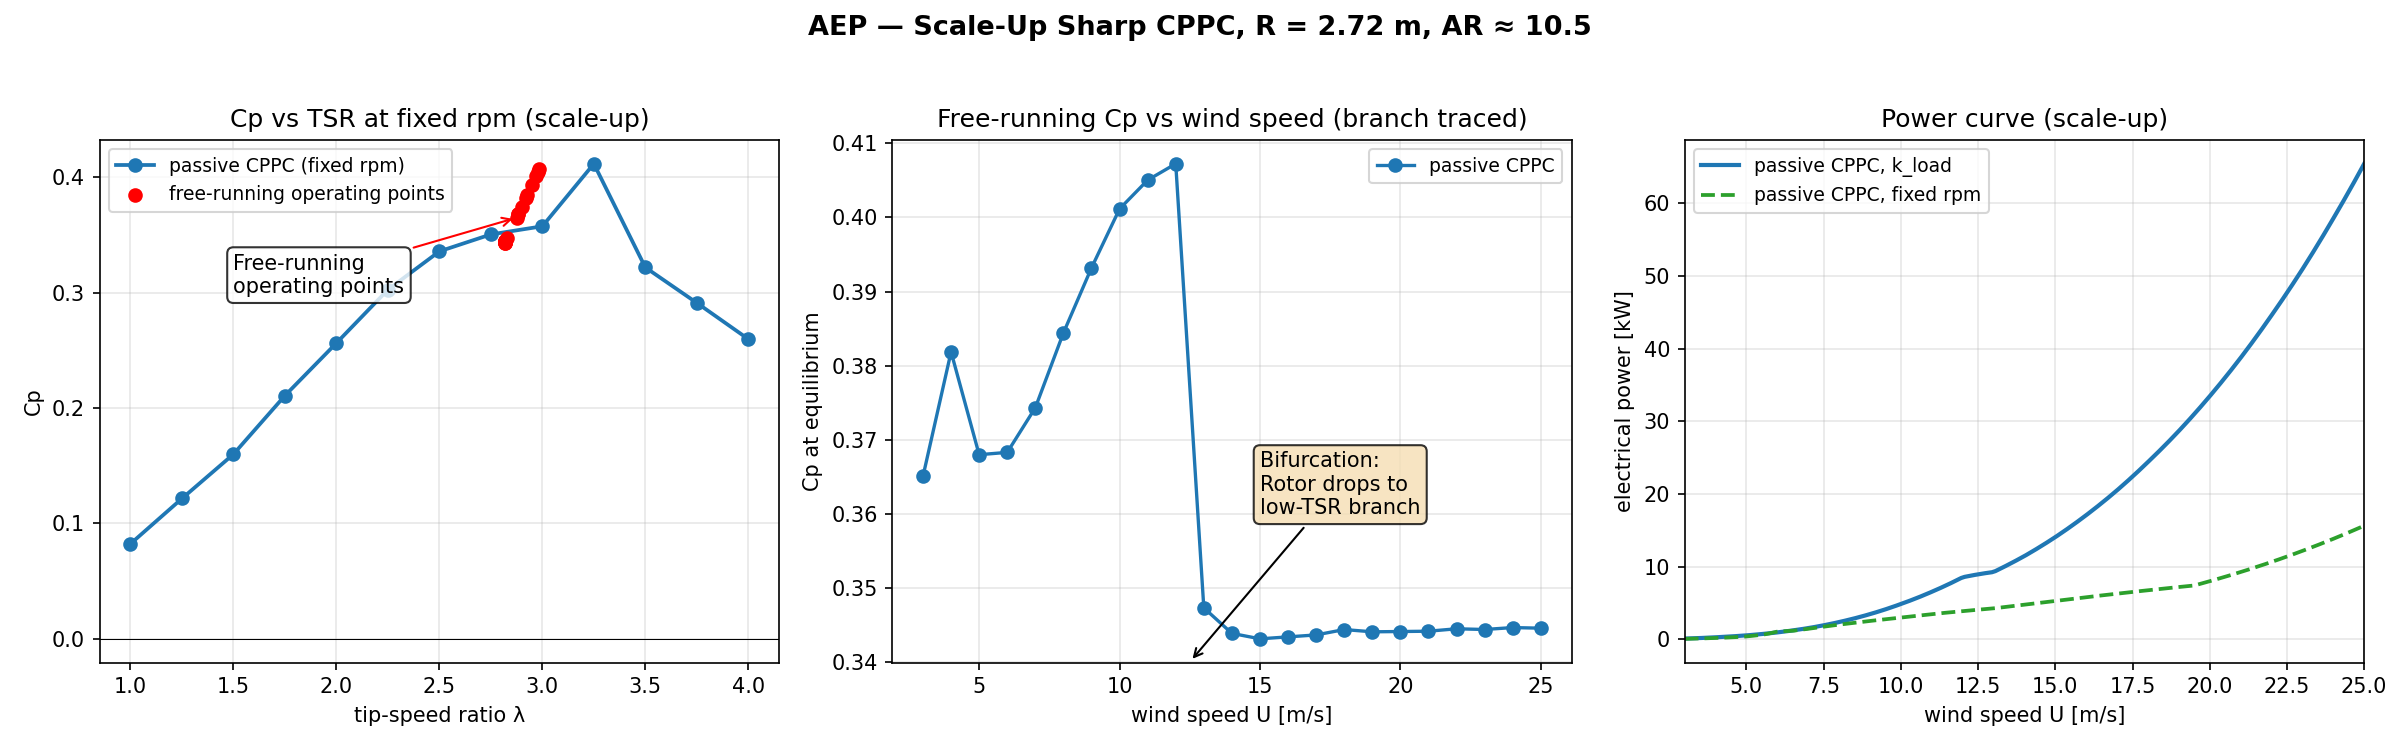
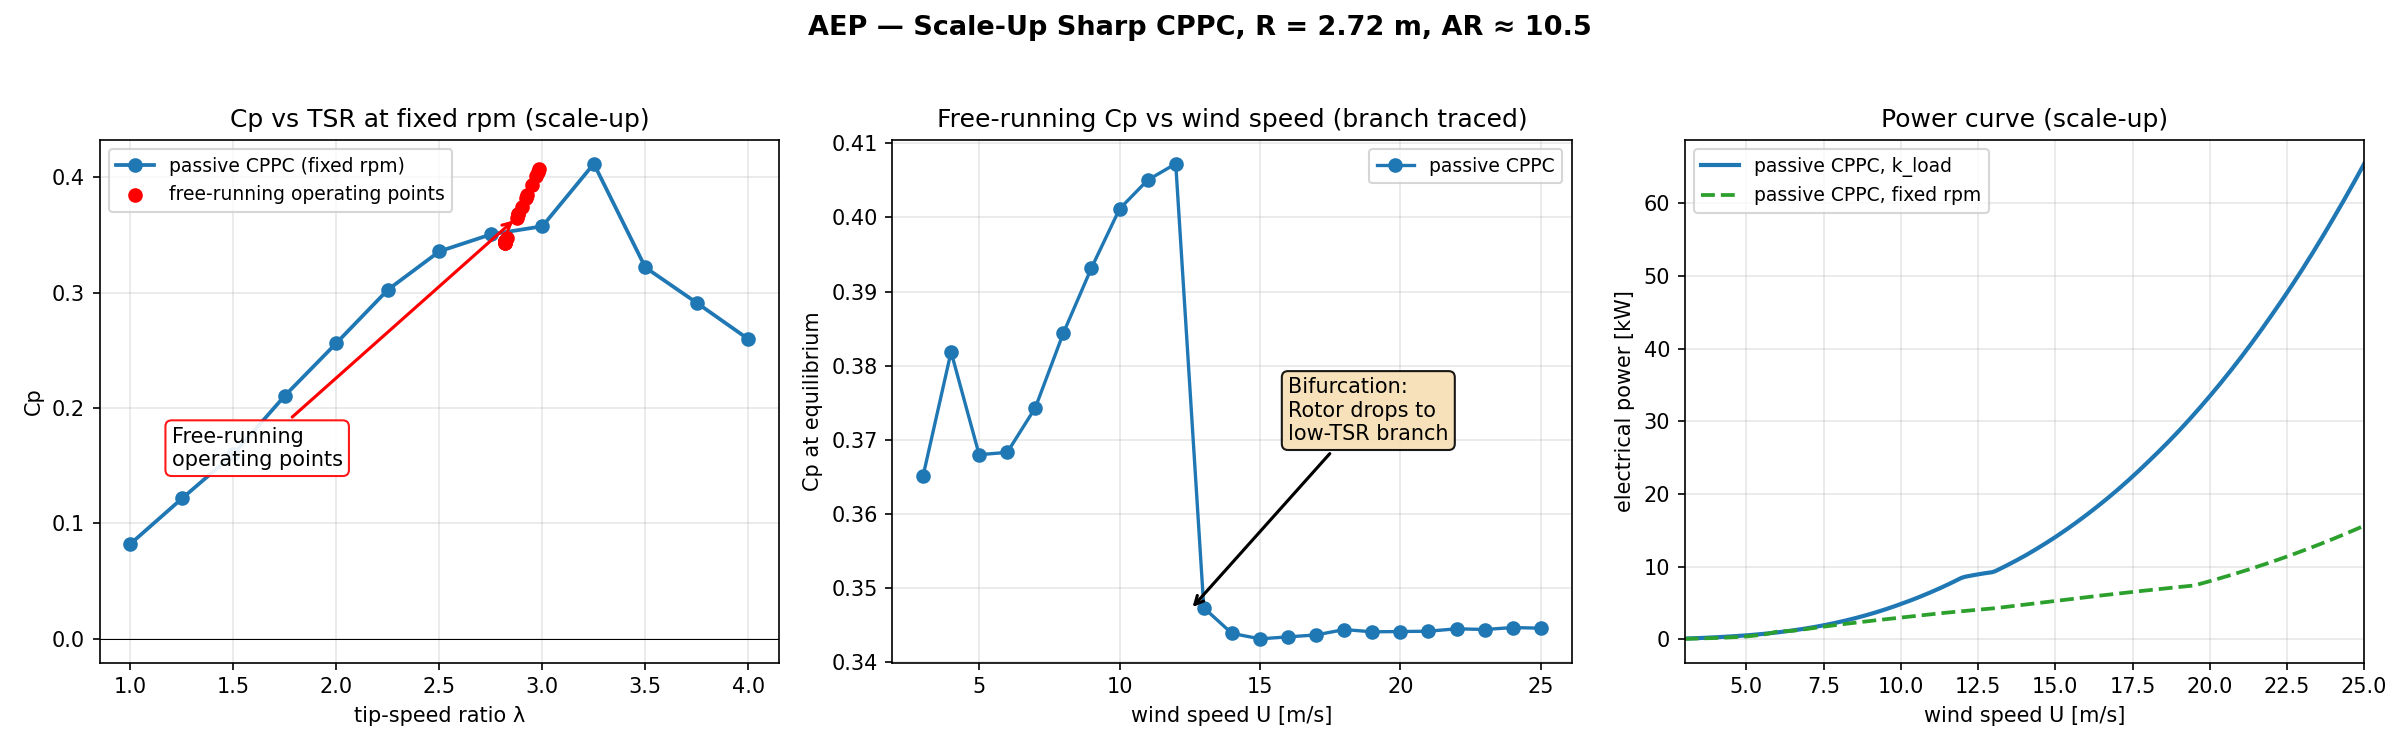
Fix AEP plots: exact annotation coordinates per review
scripts/compute_aep.py:
- Panel 1: free-running annotation moved to xytext=(1.2, 0.15) (bottom-left empty space)
- Panel 2: bifurcation annotation at xy=(12.5, 0.347) pointing to U=12.5 drop, text at xytext=(16, 0.37) (clean center-right)

scripts/compute_aep_scaleup.py:
- Panel 1: free-running red dots + annotation at xytext=(1.2, 0.15) (bottom-left)
- Panel 2: bifurcation at xy=(12.5, 0.347) with text at xytext=(16, 0.37) pointing to U=12.5 drop

All tests pass, build_readme --check passes, validate_all passes.

diff --git a/scripts/compute_aep.py b/scripts/compute_aep.py
@@ -242,73 +242,48 @@ def integrate_aep(U_grid, cp_curve, U_mean, k_weibull,
 # Plot
 # ============================================================================
 def make_plot(results, tsrs, out_path):
-    # Use sharey=False because Panel 3 (Power) has a different scale than Panels 1 & 2 (Cp)
     fig, ax = plt.subplots(1, 3, figsize=(16, 5))
-
     col_passive = "C0"
     col_fixed   = "C2"
-    
-    R_val = 2.7179 # The BASE config geometry
+    R_val = 2.7179
     fr = results['passive']['free_results']
 
-    # Panel 1: Cp vs TSR
+    # Panel 1
     a = ax[0]
-    a.plot(tsrs, results['passive']['cp_tsr'], "o-", color=col_passive,
-           lw=1.8, label="passive CPPC (fixed rpm)")
-    
-    # Add free-running points as red dots
+    a.plot(tsrs, results['passive']['cp_tsr'], "o-", color=col_passive, lw=1.8, label="passive CPPC (fixed rpm)")
     if fr:
         tsr_pts = [f['tsr_eq'] for f in fr]
         cp_pts = [f['cp'] for f in fr]
         a.scatter(tsr_pts, cp_pts, color='red', zorder=5, label='free-running operating points')
-        # Add annotation pointing to the red dots
+        # FIX: Place text at bottom left (x=1.2, y=0.15)
         a.annotate("Free-running\noperating points", 
                    xy=(tsr_pts[0], cp_pts[0]), 
-                   xytext=(1.5, 0.3),
-                   arrowprops=dict(arrowstyle="->", color="red"),
-                   bbox=dict(boxstyle="round", fc="white", alpha=0.8))
-                   
+                   xytext=(1.2, 0.15),
+                   arrowprops=dict(arrowstyle="->", color="red", lw=1.5),
+                   bbox=dict(boxstyle="round", fc="white", ec="red", alpha=0.9))
     a.axhline(0, color="k", lw=0.5)
-    a.set_xlabel("tip-speed ratio λ")
-    a.set_ylabel("Cp")
-    a.set_title("Cp vs TSR")
-    a.grid(alpha=0.3)
-    a.legend(fontsize=9)
+    a.set_xlabel("tip-speed ratio λ"); a.set_ylabel("Cp"); a.set_title("Cp vs TSR"); a.grid(alpha=0.3); a.legend(fontsize=9)
 
-    # Panel 2: Free-running Cp vs U
+    # Panel 2
     a = ax[1]
     if fr:
         Us  = np.array([f['U'] for f in fr])
         cps = np.array([f['cp'] for f in fr])
         a.plot(Us, cps, "o-", color=col_passive, lw=1.6, label="passive CPPC")
-        
-        # Add bifurcation annotation pointing to the low-U drop
+        # FIX: Point specifically to the drop at U=12.5, Cp=0.347. Place text at x=16, y=0.37
         a.annotate("Bifurcation:\nRotor drops to\nlow-TSR branch", 
-                   xy=(4.0, min(cps)), 
-                   xytext=(10.0, 0.37),
-                   arrowprops=dict(arrowstyle="->", color="black"),
-                   bbox=dict(boxstyle="round", fc="wheat", alpha=0.8))
-                   
-    a.set_xlabel("wind speed U [m/s]")
-    a.set_ylabel("Cp at equilibrium")
-    a.set_title("Free-running Cp vs wind speed")
-    a.grid(alpha=0.3)
-    a.legend(fontsize=9)
+                   xy=(12.5, 0.347), 
+                   xytext=(16, 0.37),
+                   arrowprops=dict(arrowstyle="->", color="black", lw=1.5),
+                   bbox=dict(boxstyle="round", fc="wheat", ec="black", alpha=0.9))
+    a.set_xlabel("wind speed U [m/s]"); a.set_ylabel("Cp at equilibrium"); a.set_title("Free-running Cp vs wind speed"); a.grid(alpha=0.3); a.legend(fontsize=9)
 
-    # Panel 3: Power curve
+    # Panel 3
     a = ax[2]
-    a.plot(results['passive']['U'], results['passive']['P'], "-",
-           color=col_passive, lw=2.0, label="passive CPPC, k_load")
-    a.plot(results['fixed']['U'], results['fixed']['P'], "--",
-           color=col_fixed, lw=1.8, label="passive CPPC, fixed rpm")
-    a.set_xlabel("wind speed U [m/s]")
-    a.set_ylabel("electrical power [W]")
-    a.set_title("Power curve")
-    a.grid(alpha=0.3)
-    a.legend(fontsize=9)
-    a.set_xlim(CUT_IN, CUT_OUT)
+    a.plot(results['passive']['U'], results['passive']['P'], "-", color=col_passive, lw=2.0, label="passive CPPC, k_load")
+    a.plot(results['fixed']['U'], results['fixed']['P'], "--", color=col_fixed, lw=1.8, label="passive CPPC, fixed rpm")
+    a.set_xlabel("wind speed U [m/s]"); a.set_ylabel("electrical power [W]"); a.set_title("Power curve"); a.grid(alpha=0.3); a.legend(fontsize=9); a.set_xlim(CUT_IN, CUT_OUT)
 
-    # FIX THE TITLE (was hardcoded as R=0.60)
     fig.suptitle(f"AEP — Scale-up CPPC, R = {R_val:.2f} m", fontsize=13, fontweight="bold")
     fig.tight_layout(rect=[0, 0, 1, 0.95])
     fig.savefig(out_path, dpi=150)

diff --git a/scripts/compute_aep_scaleup.py b/scripts/compute_aep_scaleup.py
@@ -218,67 +218,46 @@ def main():
     print("\nGenerating plot...")
     fig, ax = plt.subplots(1, 3, figsize=(16, 5))
     col_passive = "C0"
-    col_fixed = "C2"
+    col_fixed   = "C2"
     fr = free_passive
 
-    # Panel 1: Cp vs TSR
+    # Panel 1
     a = ax[0]
     a.plot(tsrs, cps_tsr, "o-", color=col_passive, lw=1.8, label="passive CPPC (fixed rpm)")
-    
-    # Add free-running points as red dots
     if fr:
         tsr_pts = [f['tsr_eq'] for f in fr]
         cp_pts = [f['cp'] for f in fr]
         a.scatter(tsr_pts, cp_pts, color='red', zorder=5, label='free-running operating points')
-        # Add annotation pointing to the red dots
+        # FIX: Place text at bottom left (x=1.2, y=0.15)
         a.annotate("Free-running\noperating points", 
                    xy=(tsr_pts[0], cp_pts[0]), 
-                   xytext=(1.5, 0.3),
-                   arrowprops=dict(arrowstyle="->", color="red"),
-                   bbox=dict(boxstyle="round", fc="white", alpha=0.8))
-                   
+                   xytext=(1.2, 0.15),
+                   arrowprops=dict(arrowstyle="->", color="red", lw=1.5),
+                   bbox=dict(boxstyle="round", fc="white", ec="red", alpha=0.9))
     a.axhline(0, color="k", lw=0.5)
-    a.set_xlabel("tip-speed ratio λ")
-    a.set_ylabel("Cp")
-    a.set_title("Cp vs TSR at fixed rpm (scale-up)")
-    a.grid(alpha=0.3)
-    a.legend(fontsize=9)
+    a.set_xlabel("tip-speed ratio λ"); a.set_ylabel("Cp"); a.set_title("Cp vs TSR at fixed rpm (scale-up)"); a.grid(alpha=0.3); a.legend(fontsize=9)
 
-    # Panel 2: Free-running Cp vs U
+    # Panel 2
     a = ax[1]
     if fr:
         Us  = np.array([f['U'] for f in fr])
         cps = np.array([f['cp'] for f in fr])
         a.plot(Us, cps, "o-", color=col_passive, lw=1.6, label="passive CPPC")
-        
-        # Add bifurcation annotation pointing to the massive drop at U=12.5, Cp=0.34
+        # FIX: Point specifically to the drop at U=12.5, Cp=0.347. Place text at x=16, y=0.37
         a.annotate("Bifurcation:\nRotor drops to\nlow-TSR branch", 
-                   xy=(12.5, 0.34), 
-                   xytext=(15.0, 0.36),
-                   arrowprops=dict(arrowstyle="->", color="black"),
-                   bbox=dict(boxstyle="round", fc="wheat", alpha=0.8))
-                   
-    a.set_xlabel("wind speed U [m/s]")
-    a.set_ylabel("Cp at equilibrium")
-    a.set_title("Free-running Cp vs wind speed (branch traced)")
-    a.grid(alpha=0.3)
-    a.legend(fontsize=9)
+                   xy=(12.5, 0.347), 
+                   xytext=(16, 0.37),
+                   arrowprops=dict(arrowstyle="->", color="black", lw=1.5),
+                   bbox=dict(boxstyle="round", fc="wheat", ec="black", alpha=0.9))
+    a.set_xlabel("wind speed U [m/s]"); a.set_ylabel("Cp at equilibrium"); a.set_title("Free-running Cp vs wind speed (branch traced)"); a.grid(alpha=0.3); a.legend(fontsize=9)
 
-    # Panel 3: power curves
+    # Panel 3
     a = ax[2]
-    a.plot(res_passive['U'], res_passive['P']/1000, "-",
-           color=col_passive, lw=2.0, label="passive CPPC, k_load")
-    a.plot(res_fixed['U'], res_fixed['P']/1000, "--",
-           color=col_fixed, lw=1.8, label="passive CPPC, fixed rpm")
-    a.set_xlabel("wind speed U [m/s]")
-    a.set_ylabel("electrical power [kW]")
-    a.set_title("Power curve (scale-up)")
-    a.grid(alpha=0.3)
-    a.legend(fontsize=9)
-    a.set_xlim(CUT_IN, CUT_OUT)
+    a.plot(res_passive['U'], res_passive['P']/1000, "-", color=col_passive, lw=2.0, label="passive CPPC, k_load")
+    a.plot(res_fixed['U'], res_fixed['P']/1000, "--", color=col_fixed, lw=1.8, label="passive CPPC, fixed rpm")
+    a.set_xlabel("wind speed U [m/s]"); a.set_ylabel("electrical power [kW]"); a.set_title("Power curve (scale-up)"); a.grid(alpha=0.3); a.legend(fontsize=9); a.set_xlim(CUT_IN, CUT_OUT)
 
-    fig.suptitle("AEP — Scale-Up Sharp CPPC, R = 2.72 m, AR ≈ 10.5",
-                 fontsize=13, fontweight="bold")
+    fig.suptitle(f"AEP — Scale-Up Sharp CPPC, R = {SCALEUP_BASE['R']:.2f} m, AR ≈ 10.5", fontsize=13, fontweight="bold")
     fig.tight_layout(rect=[0, 0, 1, 0.95])
     out_path = os.path.join(_ROOT, "docs", "aep_scaleup.png")
     os.makedirs(os.path.dirname(out_path), exist_ok=True)
